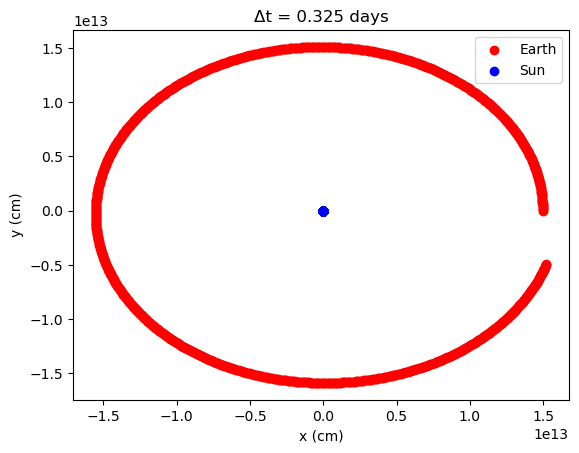
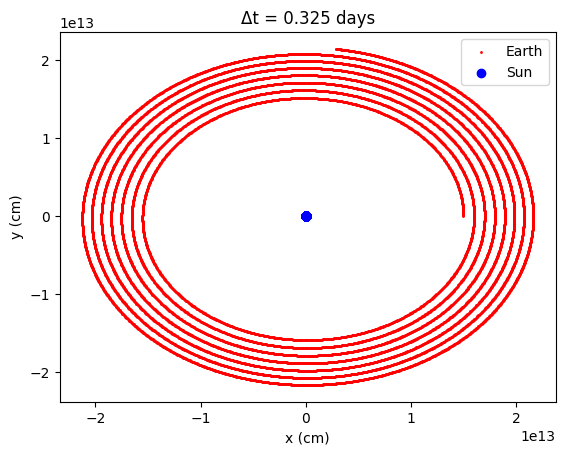
redo hw 3

Changed region(s): [[0.0, 0.0, 0.9929, 0.989], [0.5115, 0.4327, 0.5717, 0.4945]]

diff --git a/hwthree.py b/hwthree.py
@@ -10,6 +10,10 @@ Track the relative change in energy and angular momentum.
 
 mass_sun = 1.99*10**33 #cgs
 mass_earth = 5.97*10**27
+radius_sun = 6.96*10**10
+radius_earth = 6.37*10**8
+ang_v_earth =(2*np.pi)/(1*24*3600)
+ang_v_sun = (2*np.pi)/(25*24*3600)
 G = 6.67*10**(-8)
 
 def position(cur_r, cur_v, delta_time):
@@ -21,8 +25,10 @@ def velocity(cur_v, delta_v, delta_time):
 def acceleration(i_r, j_r, mass):
     return -((G*mass*(i_r - j_r))/((((i_r[0] - j_r[0])**2) + ((i_r[1] - j_r[1])**2))**(3/2)))
 
-def energy(e_pos, e_vel):
-    return -(G*mass_sun*mass_earth)/np.linalg.norm(e_pos) + 0.5*mass_earth*np.linalg.norm(e_vel)**2
+def energy(e_pos, e_vel, s_pos, s_vel):
+    return -((G*mass_sun*mass_earth)/(np.abs(np.linalg.norm(e_pos) - np.linalg.norm(s_pos)))) \
+    + 0.5*(mass_earth)*((np.linalg.norm(e_vel))**2) + 0.5*(mass_sun)*((np.linalg.norm(s_vel))**2) \
+    + 0.5*((2/5)*mass_earth*radius_earth**2)*((ang_v_earth)**2) + 0.5*((2/5)*mass_sun*radius_sun**2)*((ang_v_sun)**2)
 
 def momentum(mass, cur_r, cur_v):
     return mass*np.linalg.norm(cur_r)*np.linalg.norm(cur_v)
@@ -37,14 +43,14 @@ for step in step_arr:
     s_pos = [np.array([-(mass_earth*au_cm)/mass_sun,0])]
     s_vel = [np.array([0,-(mass_earth*vel)/mass_sun])]
 
-    time = np.arange(0, 365*86400, step*86400)
+    time = np.arange(0, 10*365*86400, step*86400)
     for i in range(0,len(time)):
         e_pos.append(position(e_pos[i], e_vel[i], step*86400))
         e_vel.append(velocity(e_vel[i], acceleration(e_pos[i],s_pos[i], mass_sun), step*86400))
         s_pos.append(position(s_pos[i], s_vel[i], step*86400))
         s_vel.append(velocity(s_vel[i], acceleration(s_pos[i],e_pos[i], mass_earth), step*86400))
 
-    plt.scatter(list(list(zip(*e_pos))[0]), list(list(zip(*e_pos))[1]), color = 'r', label = "Earth")
+    plt.scatter(list(list(zip(*e_pos))[0]), list(list(zip(*e_pos))[1]), color = 'r', label = "Earth", s = 1)
     plt.scatter(list(list(zip(*s_pos))[0]), list(list(zip(*s_pos))[1]), color = 'b', label = "Sun")
     plt.xlabel("x (cm)")
     plt.ylabel("y (cm)")
@@ -54,8 +60,6 @@ for step in step_arr:
     plt.show()
 
     if step == 0.1:
-        time = np.arange(0, 10*365*86400, step*86400)
-
         e_pos = [np.array([au_cm,0])] 
         e_vel = [np.array([0, vel])]
         s_pos = [np.array([-(mass_earth*au_cm)/mass_sun,0])]
@@ -68,28 +72,27 @@ for step in step_arr:
             e_vel.append(velocity(e_vel[i], acceleration(e_pos[i],s_pos[i], mass_sun), step*86400))
             s_pos.append(position(s_pos[i], s_vel[i], step*86400))
             s_vel.append(velocity(s_vel[i], acceleration(s_pos[i],e_pos[i], mass_earth), step*86400))
-            energy_arr.append(energy(e_pos[i], e_vel[i]) + energy(s_pos[i], s_vel[i]))
+            energy_arr.append(energy(e_pos[i], e_vel[i], s_pos[i], s_vel[i]))
             e_momentum.append(momentum(mass_earth, e_pos[i], e_vel[i]) + momentum(mass_sun, s_pos[i], s_vel[i]))
 
         diff_list_energy = []
-        for x, y in zip(energy_arr[0::], energy_arr[1::]):
-            diff_list_energy.append(y-x)
+        for x in range(0,len(energy_arr)):
+            diff_list_energy.append((energy_arr[x] - energy_arr[0])/energy_arr[0])
 
         diff_list_mom = []
-        for x, y in zip(e_momentum[0::], e_momentum[1::]):
-            diff_list_mom.append(y-x)
+        for x in range(0,len(e_momentum)):
+            diff_list_mom.append((e_momentum[x] - e_momentum[0])/e_momentum[0])
 
-        plt.scatter((time[1:,]/86400), diff_list_energy, color = 'r')
+        plt.scatter((time/86400), diff_list_energy, color = 'r')
         plt.xlabel("time (days)")
         plt.ylabel("energy")
         plt.title('relative change in energy for Δt = {} days'.format(step))
         plt.savefig("Figures/hw_three_figures/2_energy.png", bbox_inches = "tight")
         plt.show()
 
-        plt.scatter((time[1:,]/86400), diff_list_mom, color = 'r', label = "Earth")
+        plt.scatter((time/86400), diff_list_mom, color = 'r')
         plt.xlabel("time (days)")
         plt.ylabel("angular momentum")
         plt.title('relative change in angular momentum Δt = {} days'.format(step))
-        plt.legend()
         plt.savefig("Figures/hw_three_figures/2_momentum", bbox_inches = "tight")
         plt.show()
